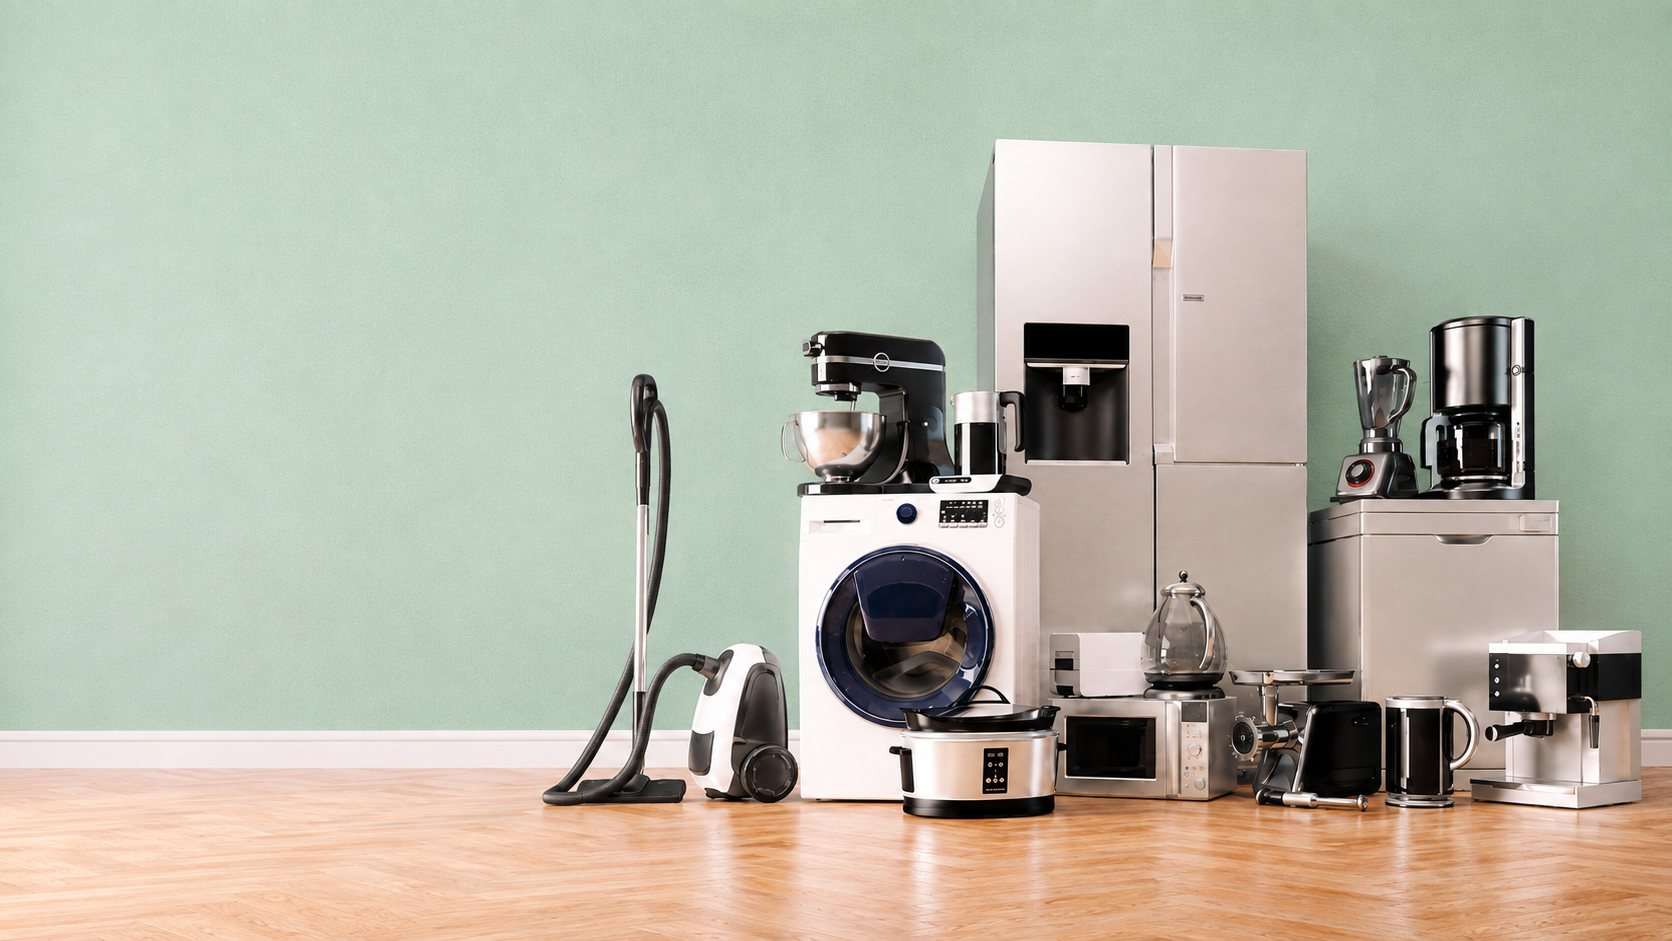
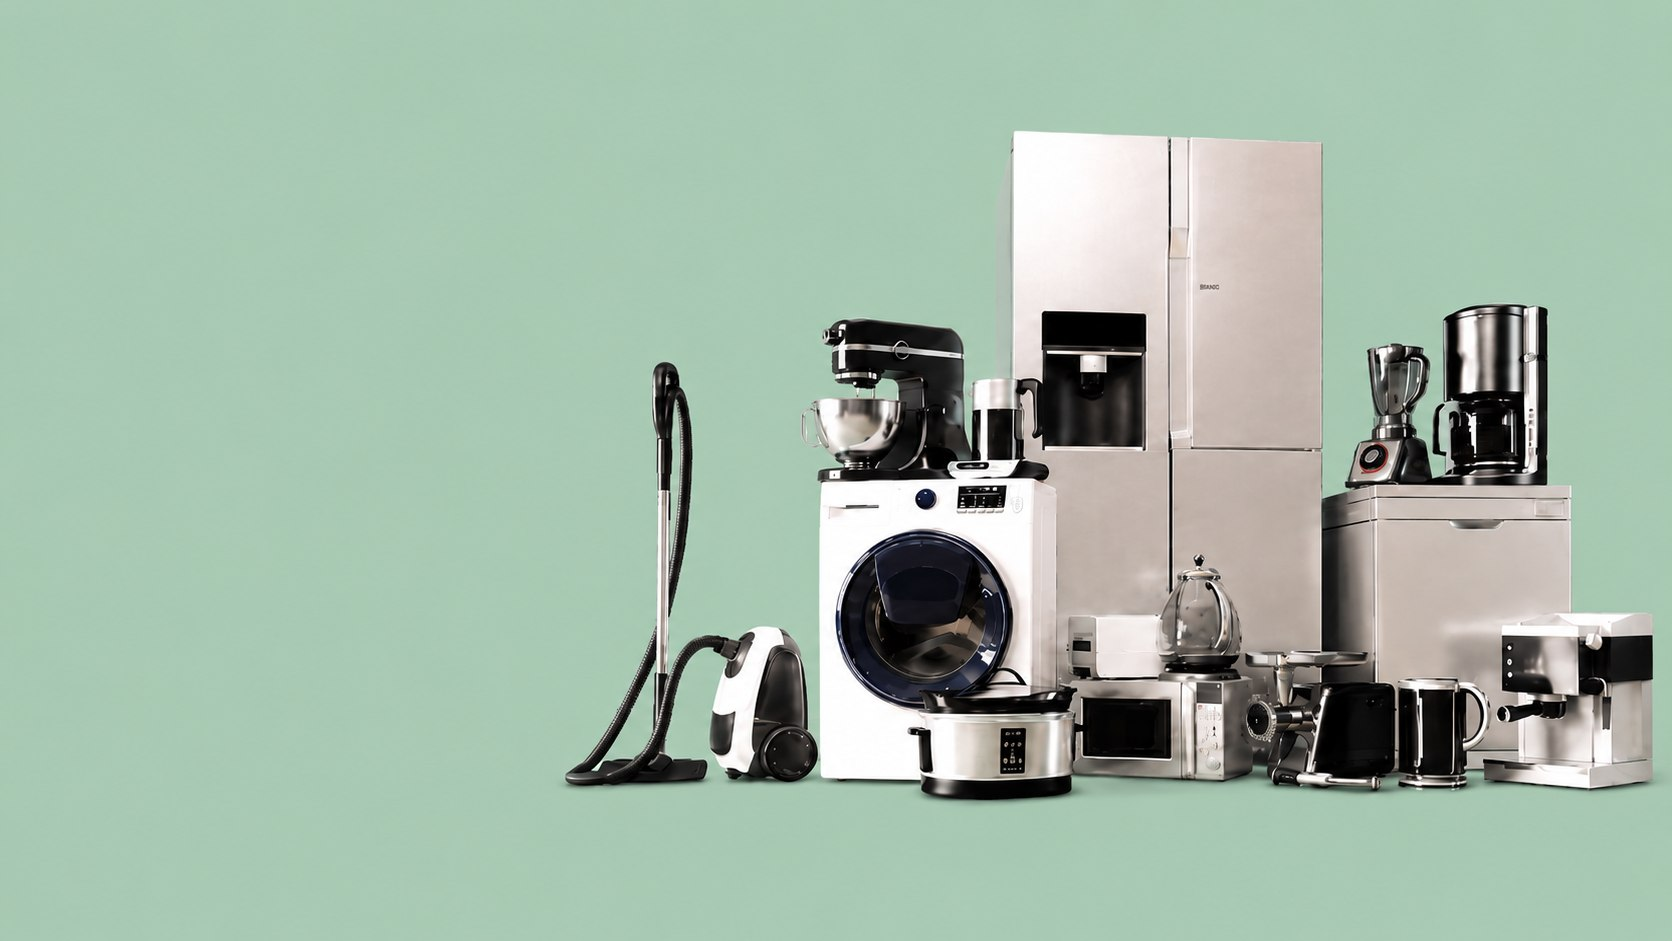
feat(ui): hero con imagen de electrodomésticos sobre verde plano
Reemplaza la imagen del hero por la versión con fondo verde plano (#A8CAB4)
y productos recortados a la derecha. En escritorio: contain a la derecha con
relleno del mismo verde y sin velo (productos nítidos). En móvil: cover abajo
con velo verde suave para la legibilidad del texto.

diff --git a/index.html b/index.html
@@ -37,7 +37,7 @@
      velo verde pasa a vertical para que el texto quede siempre legible. */
   @media (max-width:900px) {
     .hero { background-position:center bottom !important; background-size:cover !important; min-height:440px !important; }
-    .hero-scrim { background:linear-gradient(180deg,#A6CDB1 0%,rgba(166,205,177,0.92) 46%,rgba(166,205,177,0.5) 76%,rgba(166,205,177,0.14) 100%) !important; }
+    .hero-scrim { background:linear-gradient(180deg,#A8CAB4 0%,rgba(168,202,180,0.8) 30%,rgba(168,202,180,0.34) 56%,rgba(168,202,180,0.06) 80%,rgba(168,202,180,0) 100%) !important; }
   }
   @keyframes somarFloat { 0%,100% { transform:translateY(0); } 50% { transform:translateY(-10px); } }
   @keyframes somarUp { from { opacity:0; transform:translateY(20px); } to { opacity:1; transform:none; } }
@@ -196,9 +196,9 @@
 
 <sc-if value="{{ isHome }}" hint-placeholder-val="{{ true }}">
 <div>
-  <section id="inicio" class="hero" style="position:relative;overflow:hidden;background:#A6CDB1 url('assets/hero.jpg') right center/contain no-repeat;min-height:clamp(440px,46vw,600px)">
+  <section id="inicio" class="hero" style="position:relative;overflow:hidden;background:#A8CAB4 url('assets/hero.jpg') right center/contain no-repeat;min-height:clamp(440px,46vw,600px)">
     <canvas id="somar-hero-mesh" ref="{{ heroCanvasRef }}" aria-hidden="true" style="position:absolute;inset:0;width:100%;height:100%;display:none;z-index:0;pointer-events:none"></canvas>
-    <div aria-hidden="true" class="hero-scrim" style="position:absolute;inset:0;z-index:0;pointer-events:none;background:linear-gradient(90deg,#A6CDB1 0%,rgba(166,205,177,1) 38%,rgba(166,205,177,0.88) 54%,rgba(166,205,177,0.6) 68%,rgba(166,205,177,0.3) 82%,rgba(166,205,177,0) 96%)"></div>
+    <div aria-hidden="true" class="hero-scrim" style="position:absolute;inset:0;z-index:0;pointer-events:none;background:transparent"></div>
     <div style="position:relative;z-index:1;width:100%;max-width:1280px;margin:0 auto;padding:clamp(40px,7vw,86px) 20px clamp(48px,7vw,96px)">
       <div style="max-width:560px">
         <h1 style="font-size:clamp(38px,5.4vw,64px);line-height:1.04;font-weight:900;letter-spacing:-0.025em;margin:20px 0 0;text-wrap:balance;animation:somarUp 560ms 80ms ease both">Todo lo que necesitás para hacer tu hogar mejor.</h1>
